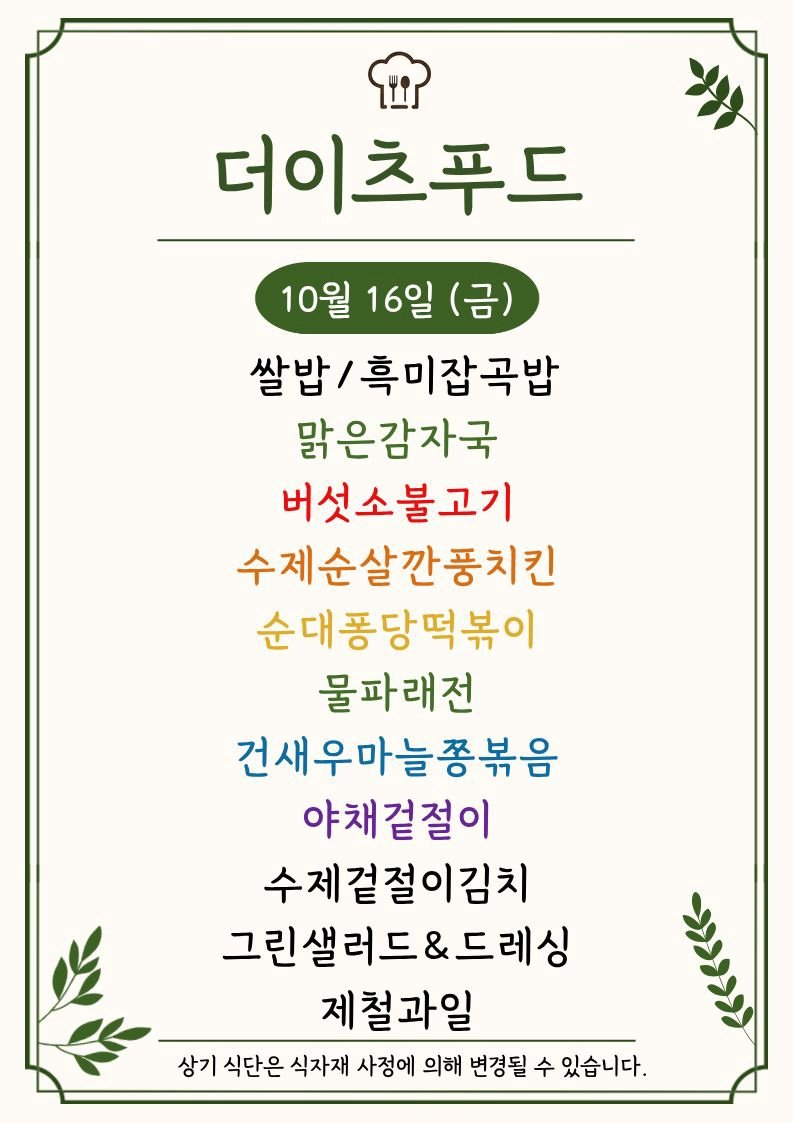
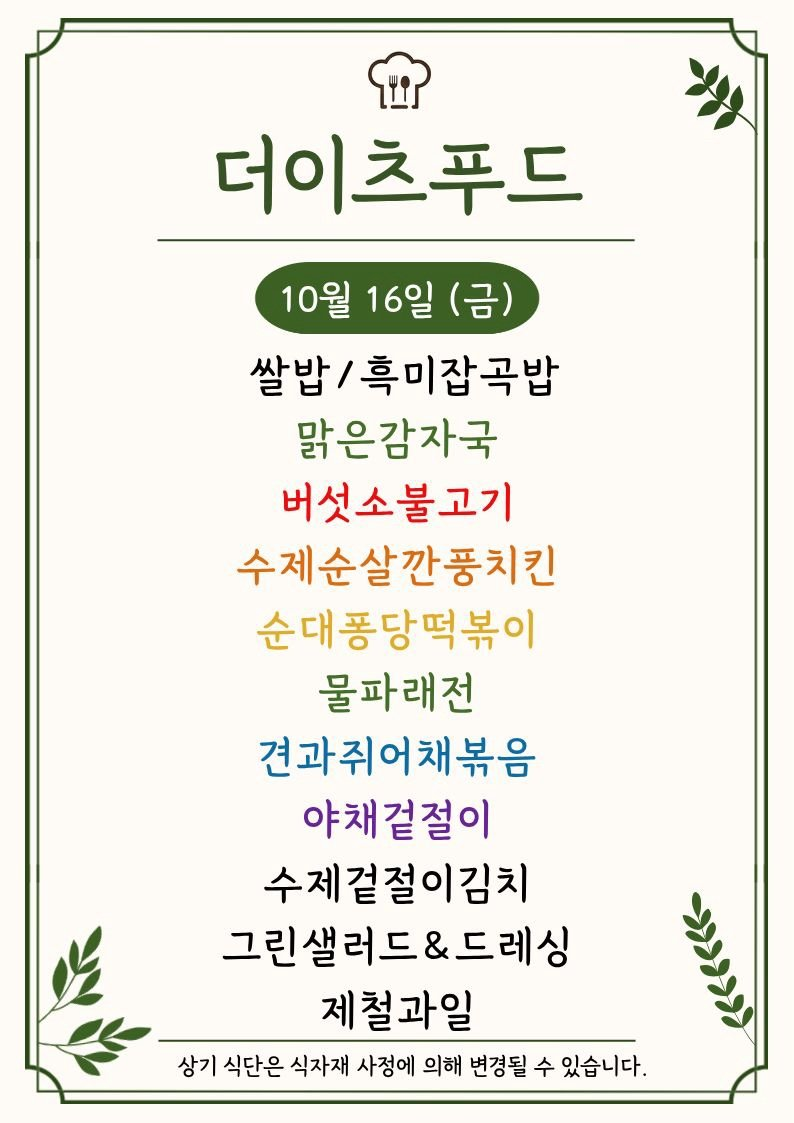
Update menu board assets

Changed region(s): [[0.3023, 0.6545, 0.6952, 0.7168]]

diff --git a/guro-menu/index.html b/guro-menu/index.html
@@ -32,7 +32,7 @@
   </header>
   <section class="meta">
     <div><small>기준 날짜</small><strong>2026년 10월 16일 금요일</strong></div>
-    <div><small>최종 갱신</small><strong>2026-10-16 11:33:24</strong></div>
+    <div><small>최종 갱신</small><strong>2026-10-16 11:48:21</strong></div>
     <div><small>등록 식당</small><strong>5개</strong></div>
   </section>
   <div class="notice">공개 카카오 채널의 메뉴 이미지를 자동 수집하고 OCR로 정리합니다. 텍스트에 오타가 있을 수 있으니 식단 이미지를 함께 확인해 주세요.</div>
@@ -76,7 +76,7 @@
         </div>
         <img class="menu-image" src="./images/the-eats-food.png" alt="더이츠푸드 식단 이미지" loading="lazy">
         <p class="message">최신 공개 식단 이미지의 텍스트입니다. 날짜는 원본 이미지를 확인해 주세요.</p>
-        <ul><li>~ 으&gt; &gt; 본</li><li>더 이</li><li>쌀밥/흑미잡곡밥</li><li>맑은감자국</li><li>버섯소불고기</li><li>수제순살깐풍치킨</li><li>물파래전</li><li>건새우마늘종볶음</li><li>야채겉절이</li><li>수제겉절이김치 0</li><li>그린샐러드&amp;드레싱</li><li>제철과일 yY</li></ul>
+        <ul><li>~ 으&gt; &gt; 본</li><li>더 이</li><li>쌀밥/흑미잡곡밥</li><li>맑은감자국</li><li>버섯소불고기</li><li>수제순살깐풍치킨</li><li>물파래전</li><li>견과쥐어채볶음</li><li>야채겉절이</li><li>수제겉절이김치</li><li>그린샐러드&amp;드레싱 Y</li><li>제철과일 y</li></ul>
       </article>
 
       <article class="restaurant-card">

diff --git a/menu-today/index.html b/menu-today/index.html
@@ -209,7 +209,7 @@
 
     <section class="meta-bar">
       <div class="meta-card"><div class="meta-label">기준 날짜</div><div class="meta-value">2026년 10월 16일 금요일</div></div>
-      <div class="meta-card"><div class="meta-label">최종 가져온 시간</div><div class="meta-value">2026-10-16 11:33:09</div></div>
+      <div class="meta-card"><div class="meta-label">최종 가져온 시간</div><div class="meta-value">2026-10-16 11:48:08</div></div>
       <div class="meta-card"><div class="meta-label">확인 완료</div><div class="meta-value">9개 식당</div></div>
       <div class="meta-card"><div class="meta-label">준비중</div><div class="meta-value">3개 채널</div></div>
     </section>
